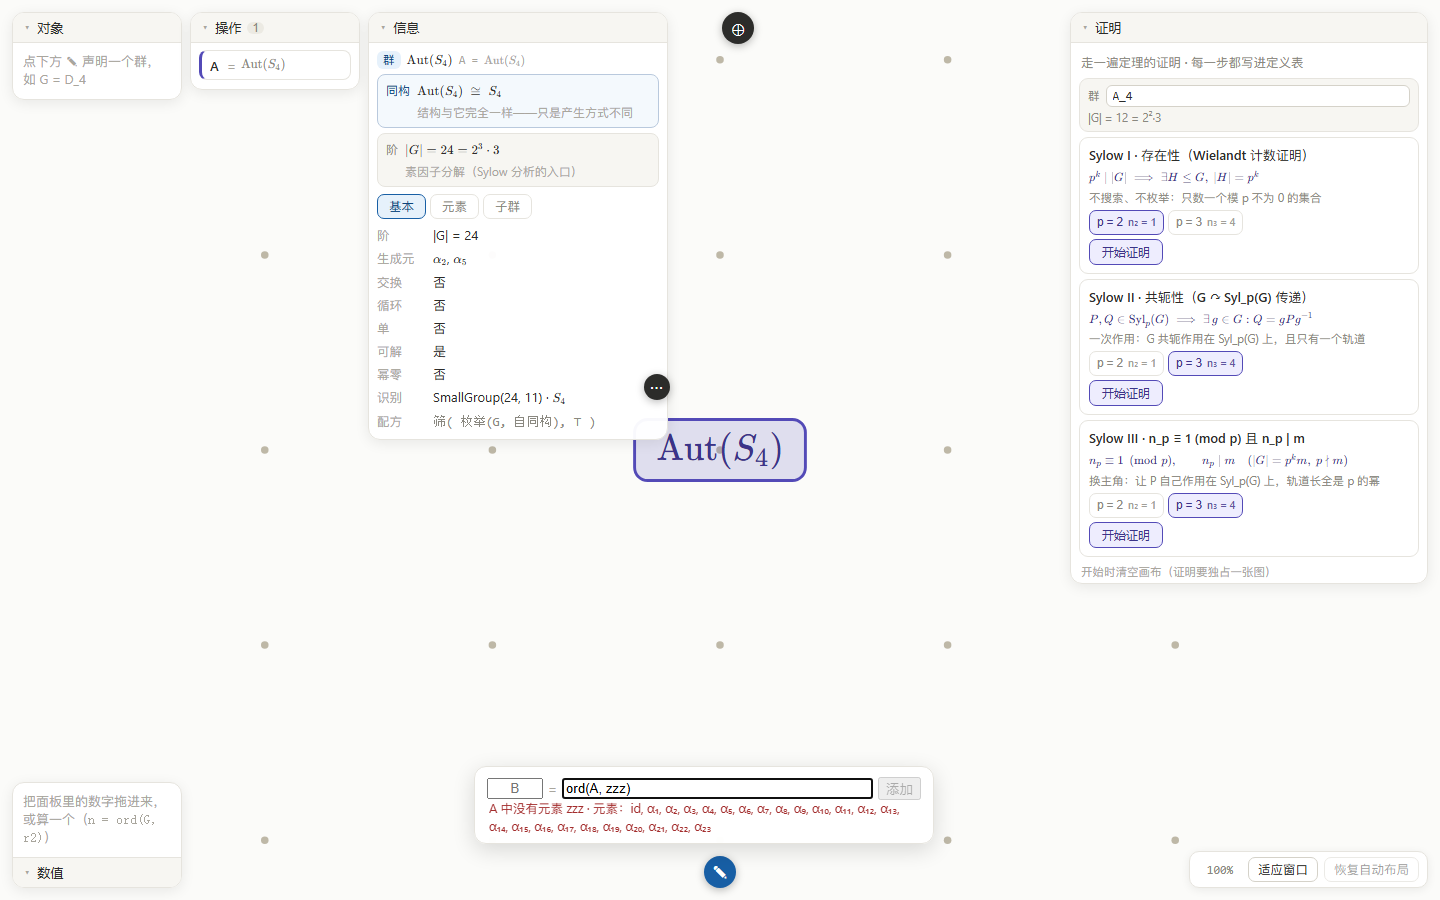
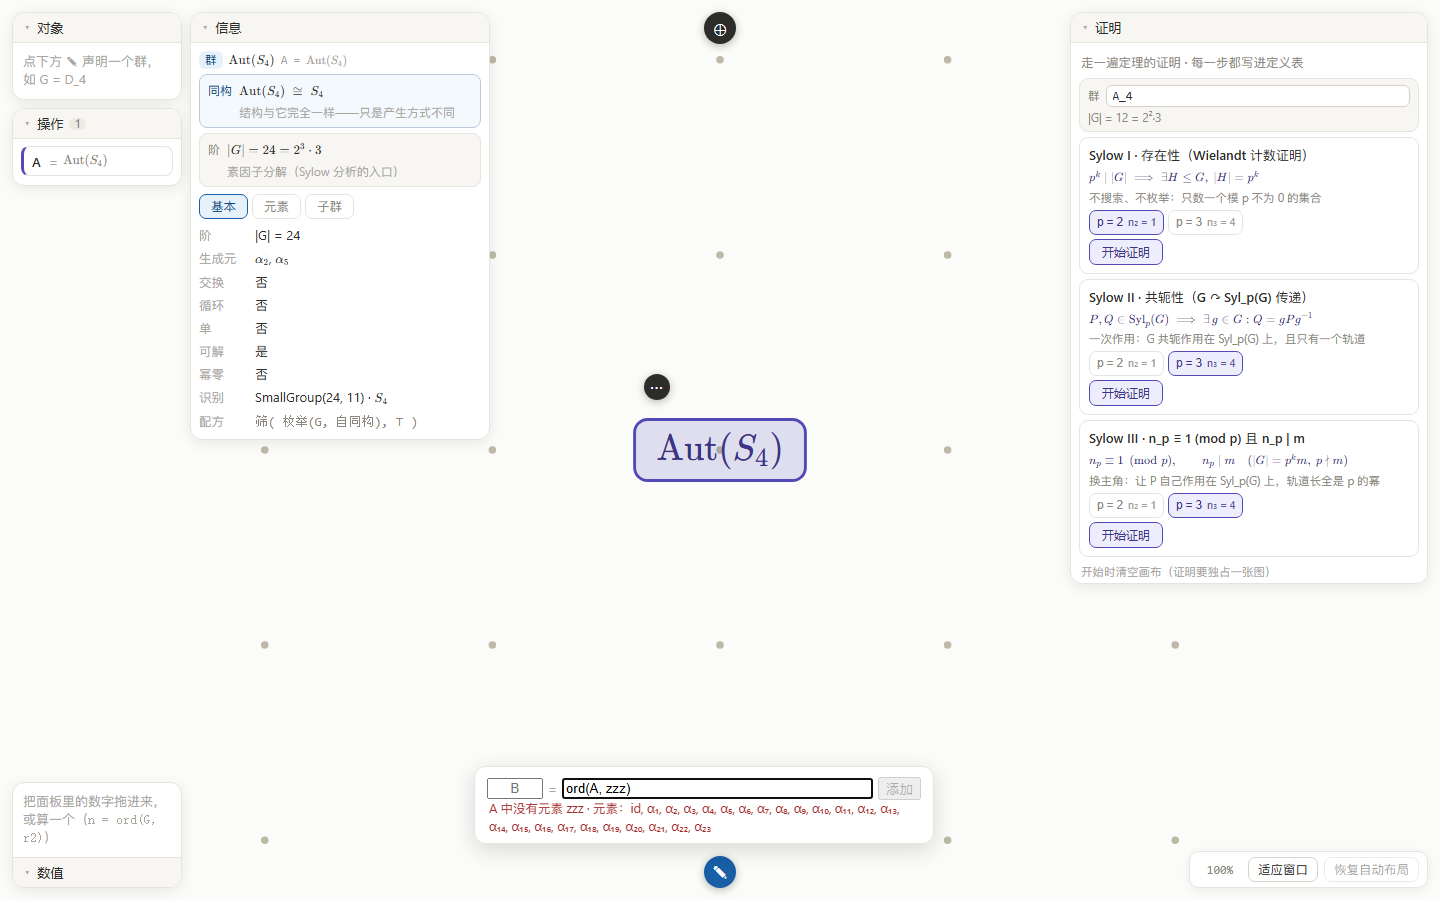
U16：左上抽屉分列 —— 「对象」与「操作」叠成同一列
用户：「对象栏和操作栏可以堆在一起，放在同一列」。

判断：这两栏是同一件事的两半（一栏是手写的定义，一栏是运算产出的对象），
用户来回复查的就是它们，并排两列让视线来回横跳；「信息」是另一类活（"看"），
留在自己一列。

apps/web/src/App.tsx
  · 「对象」+「操作」包进 .dock-col（一个 flex 列），「信息」仍与它并排。
  · 整组宽度 668 → 490；barriers.top 随之变小 → 顶部多对象球自动左移
    （仍是 v3.1 的"只挪球，不动画布"）。

apps/web/src/App.css
  · .dock-col：flex 列 + gap 8px + **封顶 calc(100vh - 64px)**
    （留 64px 避开左下角常驻的「数值」抽屉）。
  · .dock-col .dock-body { flex: 1 1 auto; min-height: 0 } —— 两栏都展开时
    按内容比例让出高度；body 本来就带 overflow-y: auto，缩下去是**可滚动**
    而不是被裁掉。单栏展开不受影响（它自己的 max-height: min(62vh,540px) 先生效），
    所以"列表能看的行数"没有变小。

apps/web/verify/e2e/dock-layout.mjs（新增，19 条）
  · 同列：左边缘 x 相等 · 等宽 · 上下相邻（间距 = 列 gap 8）· 列高 = 两栏高之和 + gap。
  · 「信息」另起一列：x > 对象右边界 · 与对象**顶对齐** · 没有跟着叠下去。
  · 收展不动布局：收起「操作」后列变矮、「对象」的 x/y 像素级不变、收起的是窄胶囊。
  · 高度封顶（两栏各塞 12 行 + 1280×720）：整列 bottom <= 视口高 ·
    两栏都还在 · 缩下去是 scrollHeight > clientHeight（可滚动）而不是被裁掉。

apps/web/verify/README.md
  · 走查清单加 dock-layout；补一条坑：抽屉定位别用 .nth(i)，按 .dock-title 文本，
    因为 U16 之后 DOM 顺序不变但**列分组**变了。

docs/ROADMAP.md
  · 新增「阶段 U16」+ UI 表 U16 行；记下取舍：两栏都展开时高度**按内容比例**分
    （不是平均分 —— 平均分会把单栏展开也砍到半高，而单栏是常态）。

docs/assets
  · u16-dock-col.png（两栏都塞满时的样子）。
  · 其余截图由本次重跑走查时重新生成（左上分组变了，图也跟着变）。

验证：tsc 0 错误 · 语义层 498/498 · 走查 150/150（8 套）· 控制台零错误。
改动前后各量了一次真浏览器坐标作为证据：
  前 对象 x=12 / 操作 x=190 / 信息 x=368 / colRight=668
  后 对象 (12,12) / 操作 (12,98) / 信息 (190,12) / colRight=490

diff --git a/apps/web/src/App.tsx b/apps/web/src/App.tsx
@@ -553,20 +553,27 @@ export default function App() {
       )}
 
       <div className="dock-topleft" ref={dockTopRef}>
-        <ObjectDock
-          open={openObjects}
-          onToggle={() => setOpenObjects((v) => !v)}
-          lineStates={lineStates}
-          onRemove={removeLine}
-          onSelect={selectFromDock}
-        />
-        <OpDock
-          open={openOps}
-          onToggle={() => setOpenOps((v) => !v)}
-          lineStates={lineStates}
-          onRemove={removeLine}
-          onSelect={selectFromDock}
-        />
+        {/*
+         * 「对象」与「操作」是**同一件事的两半**（输入的定义 / 运算的产物），
+         * 用户来回复查的就是这两栏 —— 所以它们叠成一列（`dock-col`），
+         * 「信息」另占一列（它是"看"的那一栏，跟上面两栏不是一类活）。
+         */}
+        <div className="dock-col">
+          <ObjectDock
+            open={openObjects}
+            onToggle={() => setOpenObjects((v) => !v)}
+            lineStates={lineStates}
+            onRemove={removeLine}
+            onSelect={selectFromDock}
+          />
+          <OpDock
+            open={openOps}
+            onToggle={() => setOpenOps((v) => !v)}
+            lineStates={lineStates}
+            onRemove={removeLine}
+            onSelect={selectFromDock}
+          />
+        </div>
         <InfoDock
           open={openInfo}
           onToggle={() => setOpenInfo((v) => !v)}

diff --git a/apps/web/src/App.css b/apps/web/src/App.css
@@ -191,6 +191,38 @@ body {
   max-width: calc(100% - 24px);
 }
 
+/*
+ * 「对象」+「操作」叠在同一列（U16）。
+ *
+ * 这两栏是**同一件事的两半**：一栏是用户手写的定义，一栏是运算产出的对象；
+ * 用户来回复查的就是它们 —— 并排两列会让视线来回横跳，「信息」才是另一类活（"看"）。
+ *
+ * 叠起来就多出一个问题：**两栏都展开时总高会越过视口**。所以这一列自己封顶，
+ * 让展开的两栏**按内容比例让出高度**（body 本来就带 `overflow-y: auto`，
+ * 缩下去自然变成可滚动的）。封顶留出 64px，避开左下角的「数值」抽屉
+ *（它常驻在 `bottom: 12px`，收起来约 30px 高）。
+ * 注：「数值」被展开、同时上面两栏也都展开时仍可能相叠 —— 与 v3.1
+ * 「抽屉收展不移动画布」的取舍一致，由用户收起其中一个解决。
+ */
+.dock-col {
+  display: flex;
+  flex-direction: column;
+  align-items: flex-start;
+  gap: 8px;
+  min-height: 0;
+  max-height: calc(100vh - 64px);
+}
+
+.dock-col .dock {
+  min-height: 0;
+}
+
+/* 让 body 参与"分高度"：外层封顶时它缩、且缩下去就是滚动而不是裁掉 */
+.dock-col .dock-body {
+  flex: 1 1 auto;
+  min-height: 0;
+}
+
 .dock-bottomleft {
   position: absolute;
   bottom: 12px;

diff --git a/docs/ROADMAP.md b/docs/ROADMAP.md
@@ -504,6 +504,29 @@
      是 U15 之前唯一没被验过的一环：tsc 过、数字全对，只有求值器会在很晚的地方拒。
      现在 `genText` 逐字回认，回不来就退 id。
 
+### 阶段 U16 — 左上抽屉分列（对象 / 操作 同列）✅ 已完成（2026-09-23）
+
+- 触发（用户）：**"对象栏和操作栏可以堆在一起，放在同一列"**。
+- 判断：这两栏是**同一件事的两半**——一栏是用户手写的定义，一栏是运算产出的对象，
+  来回复查的就是它们；并排两列会让视线来回横跳。「信息」是另一类活（"看"），留在自己一列。
+- 已交付：
+  - `App.tsx` 把「对象」+「操作」包进 `.dock-col`（一个 flex 列），「信息」仍与它并排。
+    整组宽度由 668 → 490（`barriers.top` 随之变小，顶部那颗多对象球自动左移——
+    仍是 v3.1 的"只挪球，不动画布"）。
+  - **叠起来就多出一个问题：两栏都展开时总高越过视口。** 所以这一列自己封顶
+    `calc(100vh - 64px)`（留 64px 避开左下角常驻的「数值」抽屉），
+    让两栏**按内容比例让出高度**；`.dock-body` 本来就带 `overflow-y: auto`，
+    缩下去自然是**可滚动**而不是被裁掉。
+    单栏展开时不受影响：它自己的 `max-height: min(62vh, 540px)` 先生效，
+    所以"列表能看的行数"没有变小。
+- 验证：`tsc` 0 错误 · 语义层 **498/498**（未触及，跑一遍留证）·
+  走查 **150/150**（8 套，新增 `dock-layout` 19 条：同列等宽 / 间距 = 列 gap 8 /
+  信息另起一列且**顶对齐** / 收展不动「对象」的位置 / 收起后仍是窄胶囊 /
+  **两栏各塞 12 行 + 1280×720 时整列不越出视口底部** / 缩下去可滚动 /
+  控制台零错误）· 截图 `docs/assets/u16-dock-col.png`。
+- 取舍记录：两栏都展开时高度**按内容比例**分（内容多的让得多），不是平均分。
+  这样单栏展开能吃到 62vh（平均分会把它砍半），代价是两栏同时展开时行数不等。
+
 ### 阶段 3 — 定理库 + 交互打磨（M3）
 
 - Cayley 定理、第一同构定理、orbit-stabilizer 定理模板（**入参机制已就绪**：
@@ -540,6 +563,7 @@
 | **U13** ✅ | **Sylow I 的逐步演示**（2026-09-20，= M1）：证明面板 · 13 步 step-through · `陪集作用(G, H)` 新操作 · 每步写一行定义 · 当前步高亮 | 点着「下一步」，画布**一步步长出证明图**；数字在左下数值区同步攒出来 | U10、U12 |
 | **U14** ✅ | **记号展示层收口 + Sylow II / III**（2026-09-21，= M2）：`prettySymbol` 认希腊字母与 `\mathrm` · `resolveElementLoose` 加"展示形态回认" · 6 个漏渲染的面板字段 · `P ↷ Ω` 放开子群作用 · 轨道/不动点标签带作用名 · 不动点补边 | 面板与画布上**不再出现反斜杠**；照着面板上的 `α₂` 敲回去能算；三条 Sylow 模板都能点着走完 | U13 |
 | **U15** ✅ | **模板入参界面**（2026-09-22，M2 收尾）：三条模板改吃 `(群, p)` · `stageInfo` 参数体检（|G| 分解 + 每个素因子的 n_p）· `templateReady` 拦不可跑的组合 · 生成元贪心真算 + 回认 · Sylow III 轨道分解真算 · 群输入框 + p 按钮带 n_p · `elementNotation` 把 `234` 显示成 `(234)` | 同一份证明骨架**换任意群任意 p 都能跑**；哪个 p 才有戏（n_p 写在按钮上）一眼看见；画布上不再有 `⟨234⟩` 这种像整数的标签 | U14 |
+| **U16** ✅ | **左上抽屉分列**（2026-09-23）：「对象」+「操作」叠成一列（`.dock-col`），「信息」另起一列；列高封顶 `100vh − 64px`，两栏都被展开时按内容比例让高度、缩下去变可滚动 | 手写的定义与运算产物**同列上下相邻**（来回复查不用横跳）；两栏都塞满也不会把内容顶出屏幕 | U15 |
 | **U11** | 宏（先纯重放）| 常用组合一键复用 | U3、**建议等 M1 之后**（与 Proof Spec step 序列同构）|
 
 ## 依赖与风险

diff --git a/.workbuddy/memory/2026-09-23.md b/.workbuddy/memory/2026-09-23.md
@@ -1,0 +1,37 @@
+# 2026-09-23
+
+## 用户诉求
+「一个可以优化的地方：对象栏和操作栏可以堆在一起，放在同一列」（U16）。
+
+## 做了什么
+- `App.tsx`：「对象」+「操作」包进 `.dock-col`（一个 flex 列），「信息」仍与它并排。
+  整组宽度 668 → 490；`barriers.top` 随之变小 → 顶部多对象球自动左移（v3.1「只挪球，不动画布」）。
+- `App.css` 新增 `.dock-col`：列 + `gap: 8px`，**封顶 `calc(100vh - 64px)`**
+  （留 64px 避开左下角常驻的「数值」抽屉），`.dock-body { flex: 1 1 auto; min-height: 0 }`
+  让两栏**按内容比例让高度**、缩下去变可滚动而不是被裁掉。
+  单栏展开不受影响（它自己的 `max-height: min(62vh, 540px)` 先生效）→ 列表能看的行数没变小。
+
+## 为什么这么改（判断，不是照着做）
+这两栏是**同一件事的两半**（手写的定义 / 运算的产物），用户来回复查的就是它们；
+并排两列会让视线来回横跳。「信息」是另一类活（"看"），留在自己一列。
+
+## 验证
+- 改动前后各量一次坐标（真浏览器）作为证据：
+  **前** `对象 x=12` · `操作 x=190`（同一行）· `信息 x=368` · `colRight=668`
+  → **后** `对象 x=12,y=12` · `操作 x=12,y=98`（同列，间距 8）· `信息 x=190` · `colRight=490`。
+- `tsc --noEmit` 0 错误 · 语义层 **498/498**（未触及，跑一遍留证）。
+- 走查 **150/150**（8 套，新增 `dock-layout` 19 条）：同列等宽 · 间距 = 列 gap 8 ·
+  信息另起一列且顶对齐 · **收展不动「对象」的位置** · 收起后仍是窄胶囊 ·
+  **两栏各塞 12 行 + 1280×720 时整列不越出视口底部** · 缩下去是可滚动 · 控制台零错误。
+- 截图 `docs/assets/u16-dock-col.png`（人眼看过：两栏各被截到 8 / 6 行、各有滚动条，
+  整列止于数值抽屉上方）。
+
+## 取舍记录
+两栏都展开时高度**按内容比例**分（内容多的让得多），不是平均分。
+平均分（`flex: 1 1 0`）会把单栏展开也砍到半高——单栏是常态，不值得为对称牺牲它。
+代价：两栏同时展开时行数不等（实测 8 行 vs 6 行，因为「操作」每行略高）。
+
+## 留给下次
+同上一轮：M3 定理库（Cayley / orbit–stabilizer，入参机制已就绪）·
+**Sylow III 图布局**（`Stab ↪ G` 与 `Orb ↪ Ω` 撞同列 → 长对角线横穿）。
+另：上一轮（U15）的 commit 已落地（`29ae179`），但 **push 之前被拒了**，远端还没有它。

diff --git a/apps/web/verify/README.md b/apps/web/verify/README.md
@@ -24,6 +24,7 @@ node .tmp-verify/vout/run.js          # 有 FAIL 时退出码非 0
 
 # ② 几何层：先起 dev server，再跑走查
 node node_modules/vite/bin/vite.js . --port 5273 --host 127.0.0.1   # 后台
+node verify/e2e/dock-layout.mjs       # 左上抽屉分列 + 两栏都展开时的封顶（U16）
 node verify/e2e/layout-spec.mjs       # 布局硬规范体检（三张图 + 截图）
 node verify/e2e/first-iso-square.mjs  # 第一同构正方形（G8）
 node verify/e2e/third-iso.mjs         # 第三同构骨架（G4）
@@ -36,6 +37,10 @@ node verify/e2e/proof-params.mjs      # 证明模板的入参界面（U15）
 
 - **走查脚本要起跑的模板，点的是卡片上的 `.proof-start`**，不是卡片本身
   （U15 起卡片带参数控件，点卡片不再等于起跑；卡片上有 `data-tpl="<模板 id>"` 可定位）。
+- **抽屉的类名不看顺序看标题**：左上一列里 `.dock` 有多个（对象 / 操作 / 信息），
+  定位用 `.dock:has(.dock-title:text-is("操作"))` 或 `.dock-title` 文本，别用 `.nth(i)`
+  （U16 把对象与操作叠进同一个 `.dock-col` 之后，DOM 顺序与"视觉顺序"仍然一致，
+  但**列分组**变了，`.nth()` 断言的语义会跟着变）。
 
 - 走查用 **GroupViz 项目里已装的 playwright**（`file:///C:/newproject/GroupViz/node_modules/playwright/index.mjs`），
   启动必须带 `args: ['--no-proxy-server']`，且命令前清代理变量（`env -u HTTP_PROXY -u HTTPS_PROXY …`），

diff --git a/.workbuddy/memory/MEMORY.md b/.workbuddy/memory/MEMORY.md
@@ -82,6 +82,7 @@
 - 画布 = 交换图（对象 = 节点、操作 = 箭头），非坐标系。**形状 = 类型**（群 = 无形状 + 一小块常驻淡底 / 集合 = 圆 / 映射 = 箭头）；**颜色 = 来源**（蓝 = 输入 / 紫 = 运算）。
 - **操作 = 结果对象 + 结构伴生**（伴生的映射/作用/包含才是箭头真正来源）。边界：映射边（实线、一等对象、**可点选**）vs 来源线（淡虚线、辅助、可关）。
 - 输入层三形态：文本定义 · 对象编辑器（映射构建器已落地）· 搭积木。
+- **左上三栏的分组**：`对象` 与 `操作` **同列上下**（`.dock-col` —— 两者是"手写定义 / 运算产物"的一体两面，来回复查的就是它们），`信息` 另起一列；该列封顶 `calc(100vh − 64px)`（避开左下常驻的「数值」），两栏都展开时**按内容比例**让高度、缩下去变可滚动。
 - **证明面板**（右上角）：step-through = 替用户一行行写定义；当前步的对象在画布上**高亮**（并入 `pickedIds`）；**开始证明清空画布、结束证明保留画布**；只有带 `line` 的步骤写定义表。
 
 ## 附属清单（细节在仓库里，别在这儿重抄）
